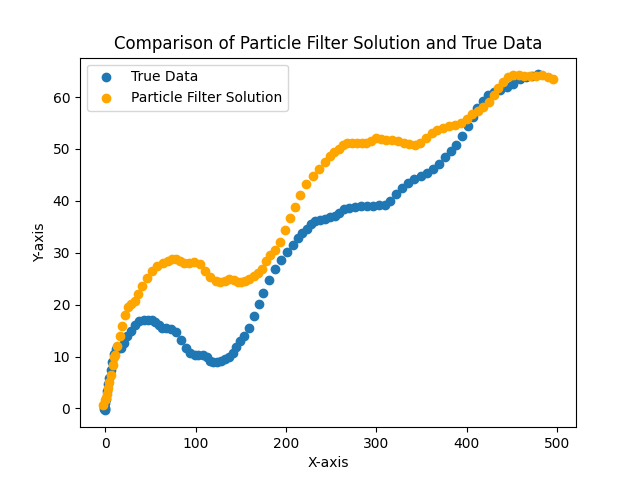
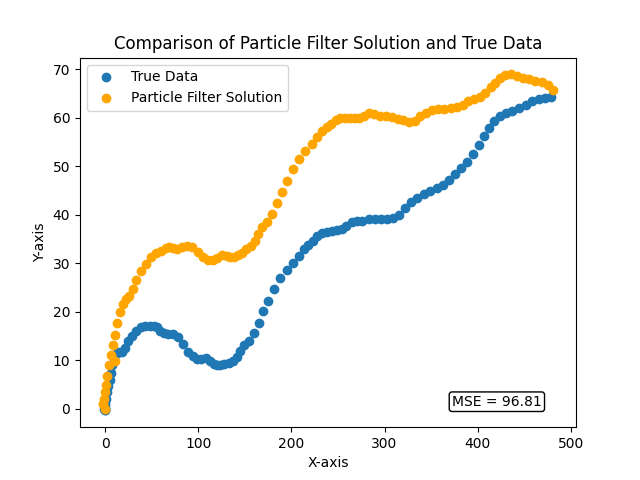
Meilleurs plots

diff --git a/Part2/particle_filter.py b/Part2/particle_filter.py
@@ -174,12 +174,16 @@ ax.scatter(sol[:, 0], sol[:, 1],color='orange', label='Particle Filter Solution'
 ax.set_xlabel('X-axis')
 ax.set_ylabel('Y-axis')
 ax.set_title('Comparison of Particle Filter Solution and True Data')
+# Afficher mse sur le plot
+text = 'MSE = '+str(round(mse,2))
+bbox_props = dict(boxstyle='round', facecolor='white', edgecolor='black',pad=0.2)
+plt.text(0.75, 0.05, text, fontsize=10, ha='left', va='bottom', bbox=bbox_props, transform=plt.gca().transAxes)
 
 # Add a legend
 ax.legend()
 
 #Save plot
-plt.savefig('plots/particle_nul_4.png')
+plt.savefig('plots/particle_nul_1.png')
 
 # Show the plot
 # plt.show()
